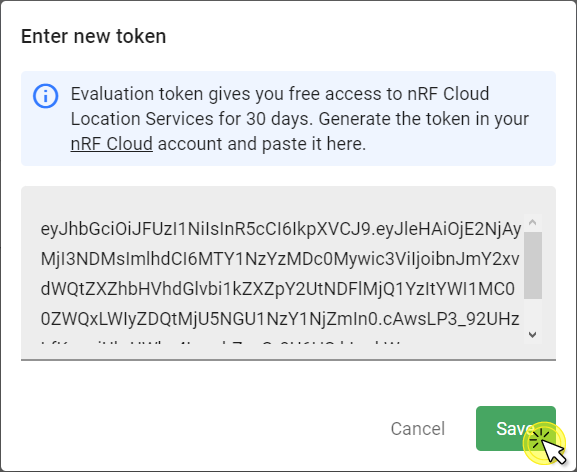
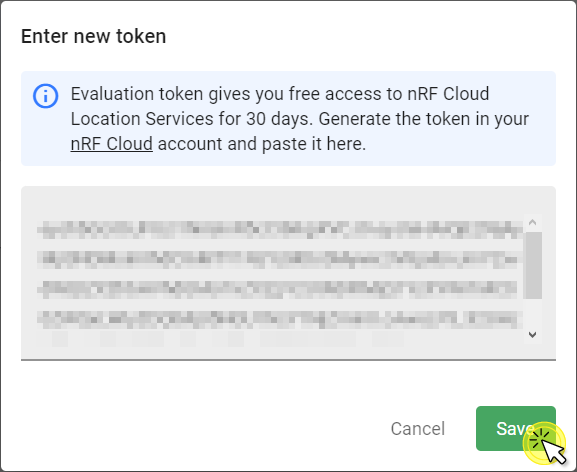
draft1

Changed region(s): [[0.0624, 0.4449, 0.9047, 0.7119]]

diff --git a/docs/nRF_Cloud_Location_services/Configure_nRF_Cloud_integration.md b/docs/nRF_Cloud_Location_services/Configure_nRF_Cloud_integration.md
@@ -9,22 +9,28 @@ Connect your nRF Cloud devices to Coiote DM to track their location and save bat
 
 To enable communication and data flow between the Nordic Semiconductor nRF Cloud and Coiote DM platforms, you first need to integrate them using the **nRF Cloud integration**  in Coiote DM. Follow the instructions below to learn how to do it.
 
-### Obtain Service Evaluation Token from nRF Cloud
+### Get the Service Evaluation Token from nRF Cloud
 
-0. In your nRF Cloud user account, go to ****.
-  ![nRFC Integration menu link](images/nRFC_menu.png "Integration menu link")
+0. In your nRF Cloud user account, from the expandable top-right menu, select **Team**.
+0. In the **Service Evaluation Token** field, click **Generate Token** and click on the icon to copy it.
+![Generate nRFC token](images/gen_token.png "Generate nRFC token")
 
 ## Integrate nRF Cloud with Coiote DM
 
 0. In your Coiote DM user account, go to **Administration --> Integrations --> Location services**.
   ![nRFC Integration menu link](images/nRFC_menu.png "Integration menu link")
 0. In the **nRF Cloud** tile, click **Connect**.
-0. In the dialog window, paste the previously copied IoT Hub connection string and Azure Blob storage connection string into the relevant fields.
-  ![Setting up the integration](images/connect_hub.png "Setting up the Azure integration"){:style="float: left;margin-right: 1177px;margin-top: 17px;"}
+0. In the dialog window, paste the previously copied nRFC Service Evaluation Token.
+  ![Paste integration token](images/save_token.png "Paste integration token"){:style="float: left;margin-right: 1177px;margin-top: 17px;"}
       - click **Save** to keep the setting.
 
-Use the obtained credentials to establish the integration between Coiote DM and your Azure IoT hub:
+Now the integration between Coiote DM and nRF Cloud is established. Read the next section on how to display device location in Coiote DM.
 
-### View location in Coiote DM
+### View device location in Coiote DM
 
-Your integration should now be established. To get location services, see []()
+To display your device location, you first need to set up the Google Maps property for your domain.
+
+0. In your Coiote DM user account, go to **Administration --> Device Inventory**.
+0. Click the **Management** link next to your device to enter Device Center.
+0. If not selected, click the **Overview** tab and scroll down to the **Location** section.
+  ![Google maps location](images/gmaps_location.png "Google maps location"){:style="float: left;margin-right: 1177px;margin-top: 17px;;margin-bottom: 17px;}
